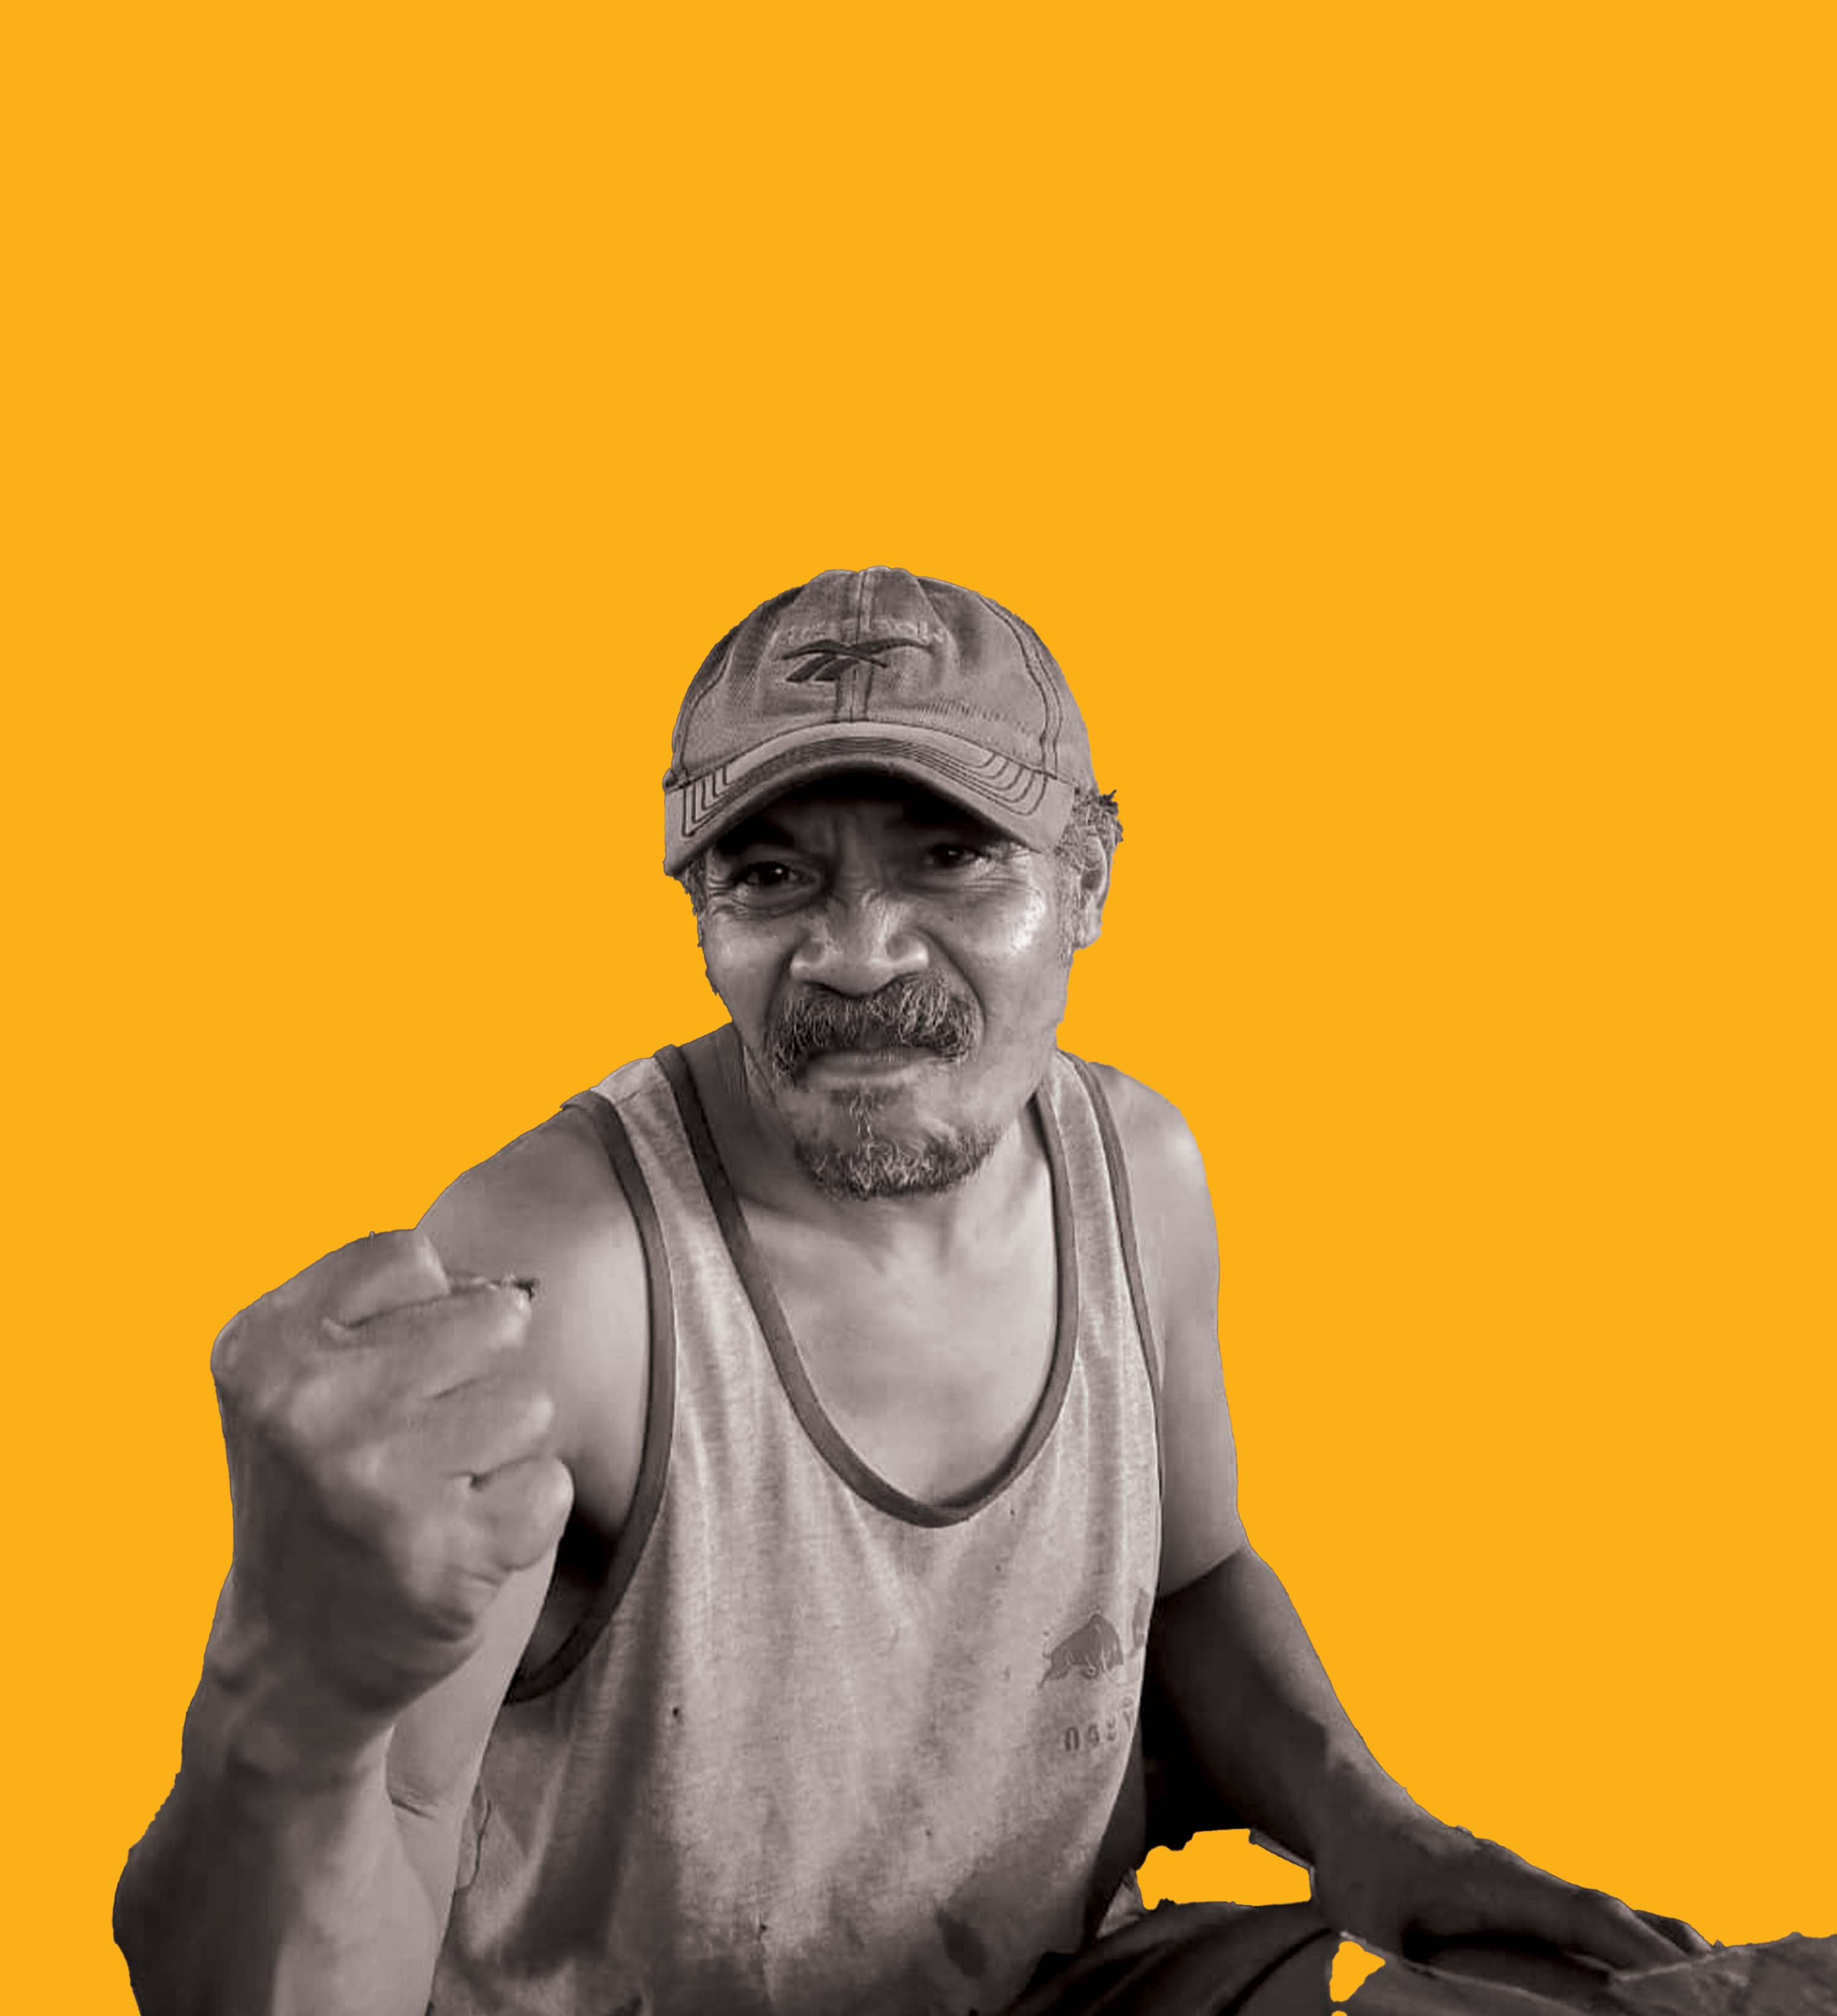
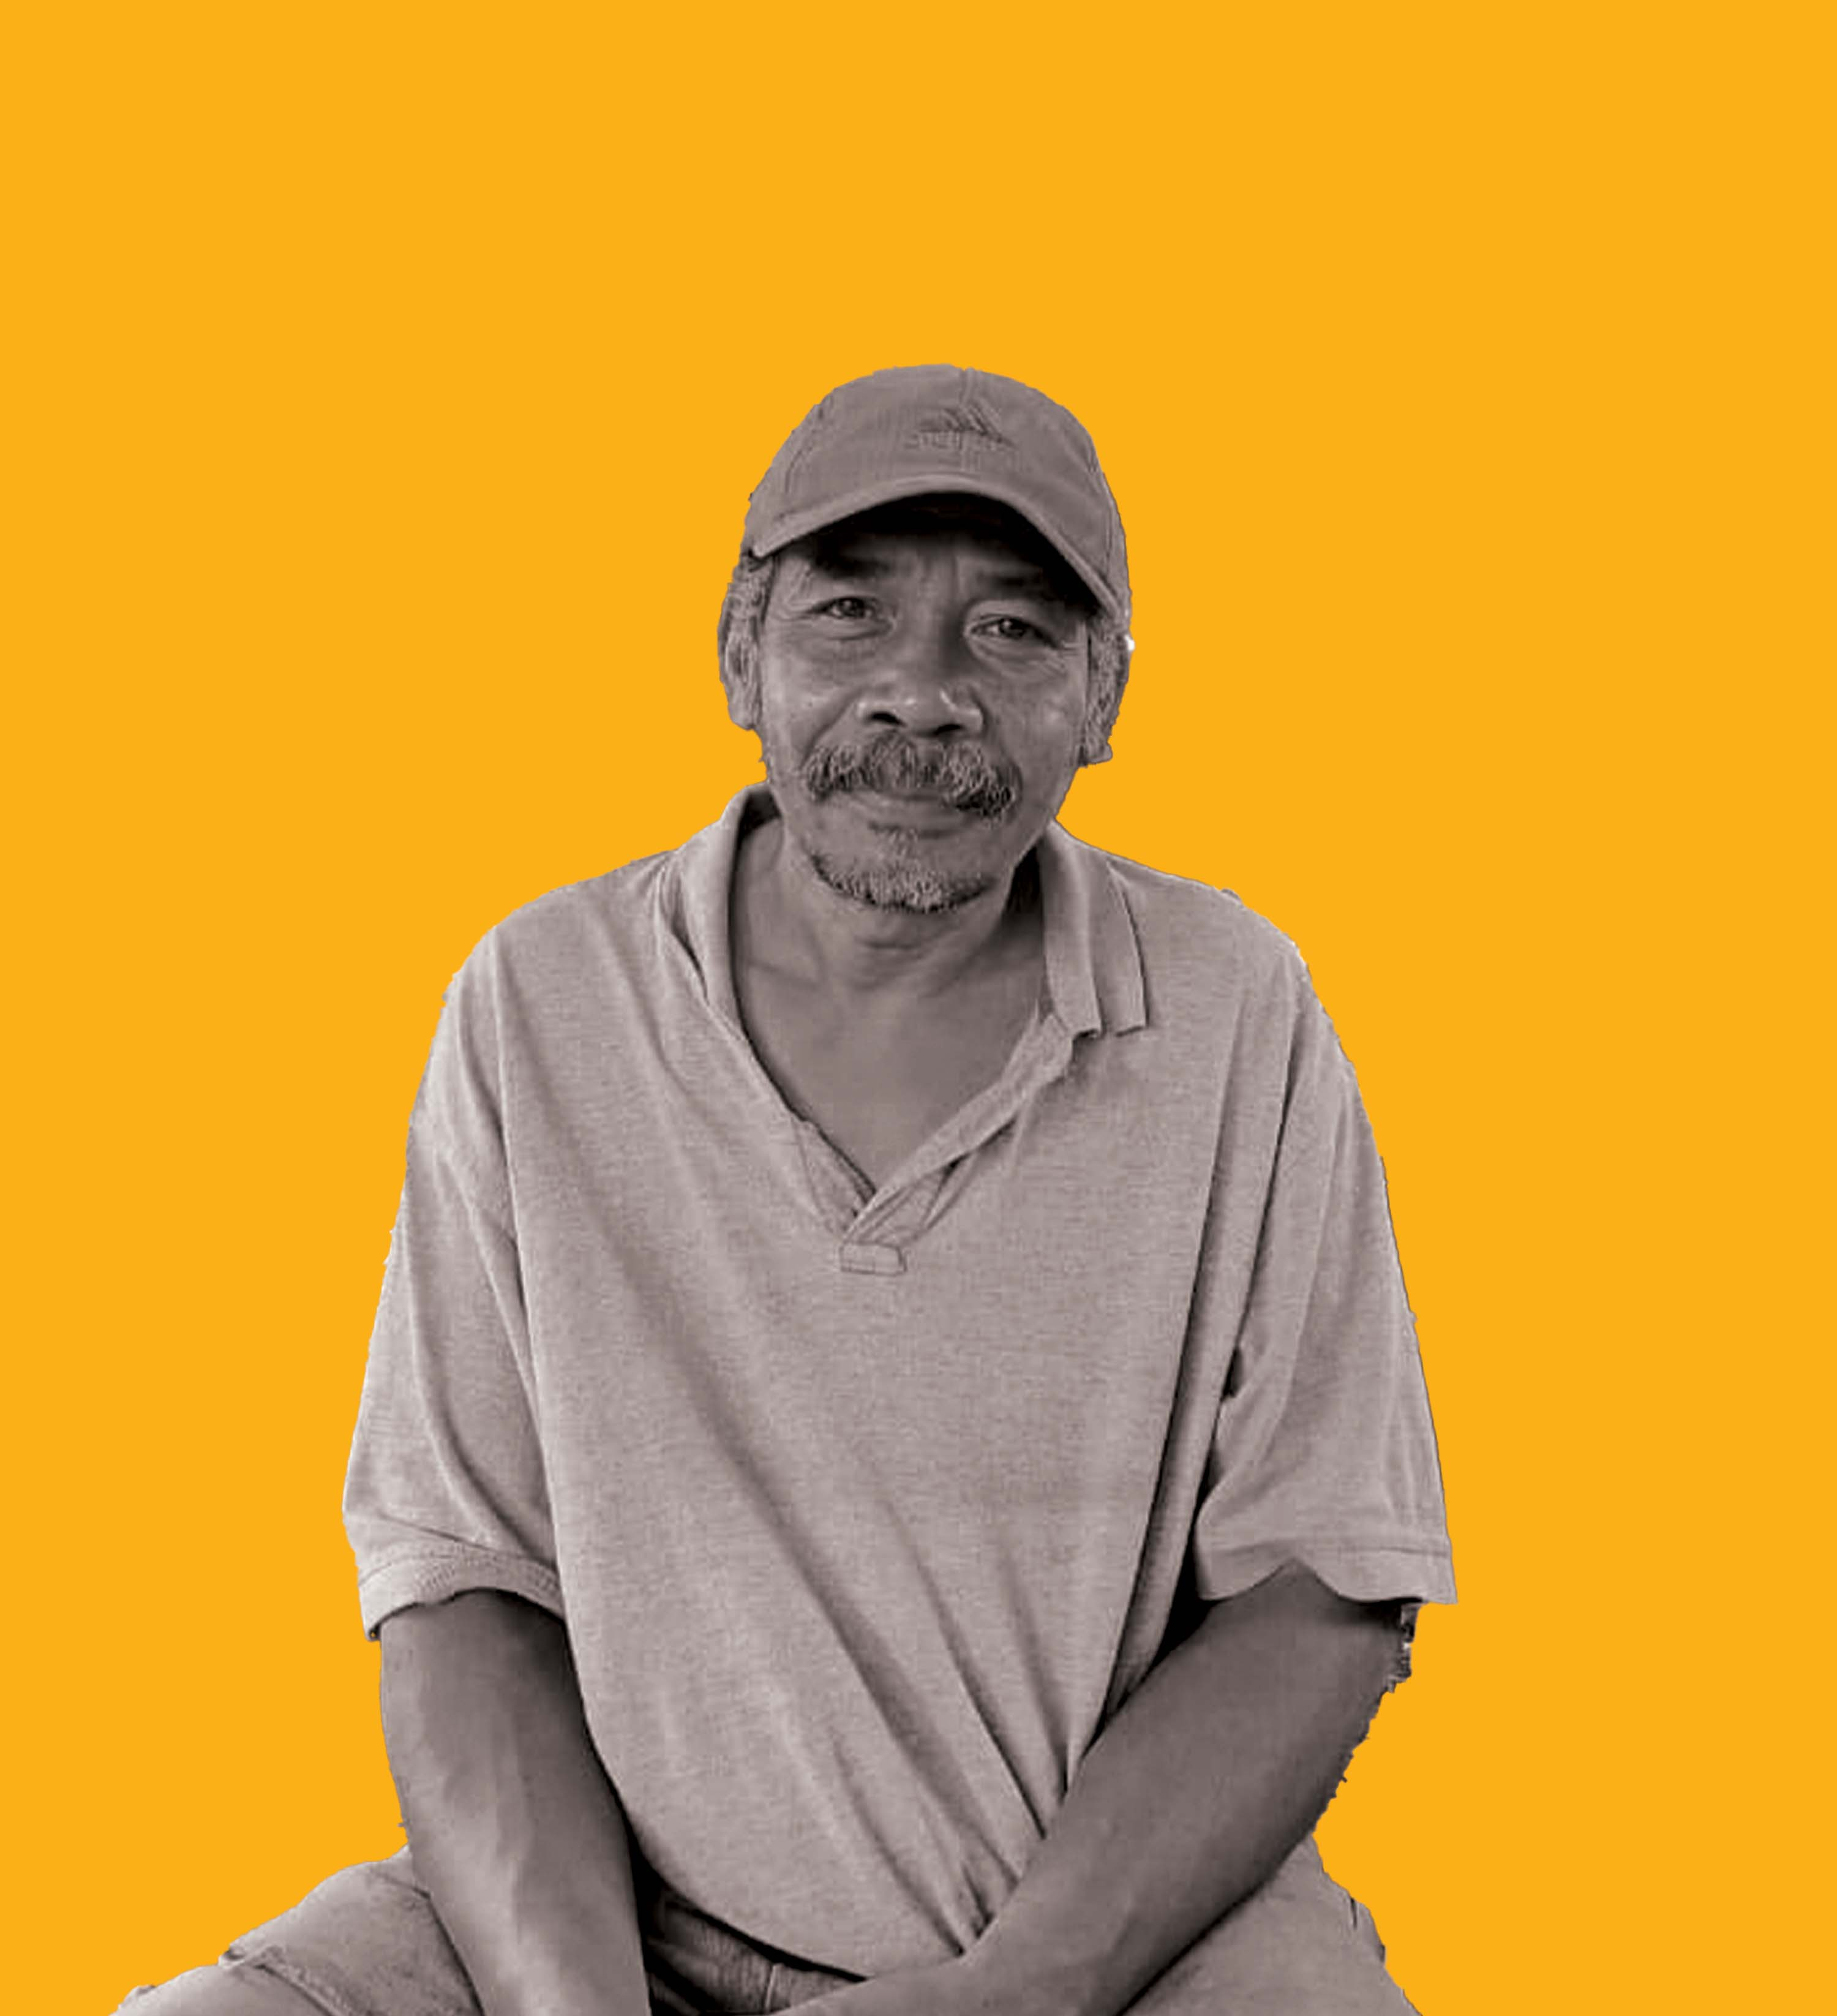
update

diff --git a/index.html b/index.html
@@ -148,7 +148,7 @@
 
                     <article class="artist-card reveal-stagger">
                         <div class="artist-img-wrapper">
-                            <img src="images/seniman-4.jpg" alt="Ferry Koli" class="artist-img" loading="lazy">
+                            <img src="images/ferry.jpg" alt="Ferry Koli" class="artist-img" loading="lazy">
                         </div>
                         <div class="artist-info">
                             <h3 class="artist-name">Ferry Koli</h3>
@@ -347,33 +347,14 @@
     <div class="footer-col col-mitra">
         
         <div class="partner-row-segment">
-            <h4>Kontributor</h4>
+            <h4>Kontributor, Media Partner, dan Sponsor</h4>
             <div class="logo-row-grid">
-                <img src="images/logo2.png" alt="Kontributor 2" loading="lazy">
-                <img src="images/logo3.png" alt="Kontributor 3" loading="lazy">
-                <img src="images/logo4.png" alt="Kontributor 4" loading="lazy">
+                <img src="images/even partner.jpeg" alt="Kontributor 2" loading="lazy">
+                <img src="images/titik kumpul.jpeg" alt="Kontributor 3" loading="lazy">
+                <img src="images/mahkota lighting logo.png" alt="Kontributor 4" loading="lazy">
             </div>
         </div>
 
-        <div class="partner-row-segment">
-            <h4>Media Partner</h4>
-            <div class="logo-row-grid">
-                <img src="images/media1.png" alt="Media Partner 1" loading="lazy">
-                <img src="images/media2.png" alt="Media Partner 2" loading="lazy">
-                <img src="images/media3.png" alt="Media Partner 3" loading="lazy">
-                <img src="images/media4.png" alt="Media Partner 4" loading="lazy">
-            </div>
-        </div>
-
-        <div class="partner-row-segment">
-            <h4>Sponsor</h4>
-            <div class="logo-row-grid">
-                <img src="images/mahkota lighting logo.png" alt="Sponsor 1" loading="lazy">
-                <img src="images/sponsor2.png" alt="Sponsor 2" loading="lazy">
-                <img src="images/sponsor3.png" alt="Sponsor 3" loading="lazy">
-                <img src="images/sponsor4.png" alt="Sponsor 4" loading="lazy">
-            </div>
-        </div>
 
     </div>
 